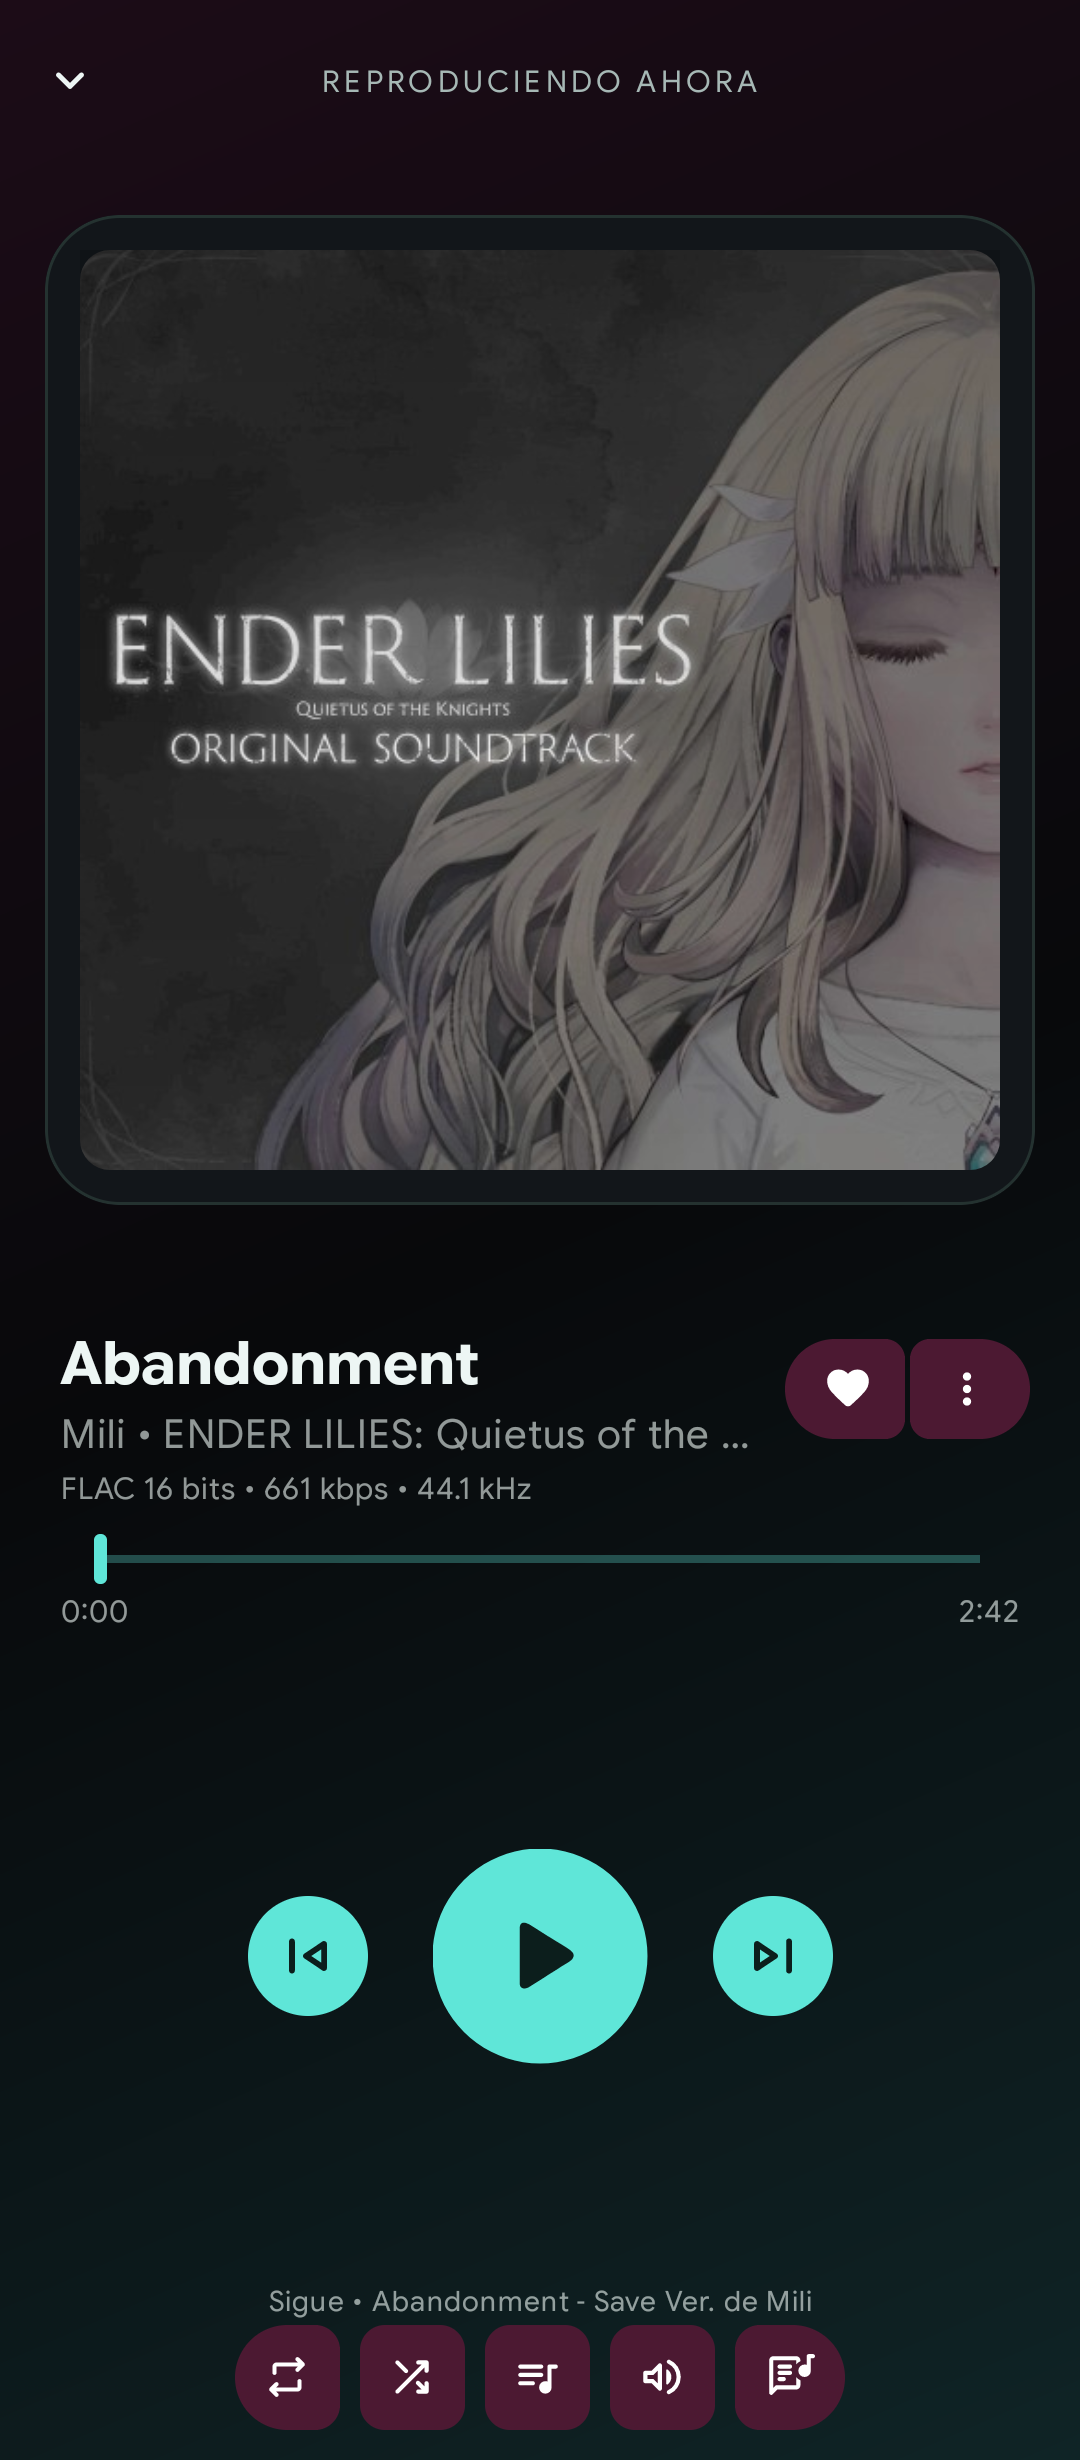
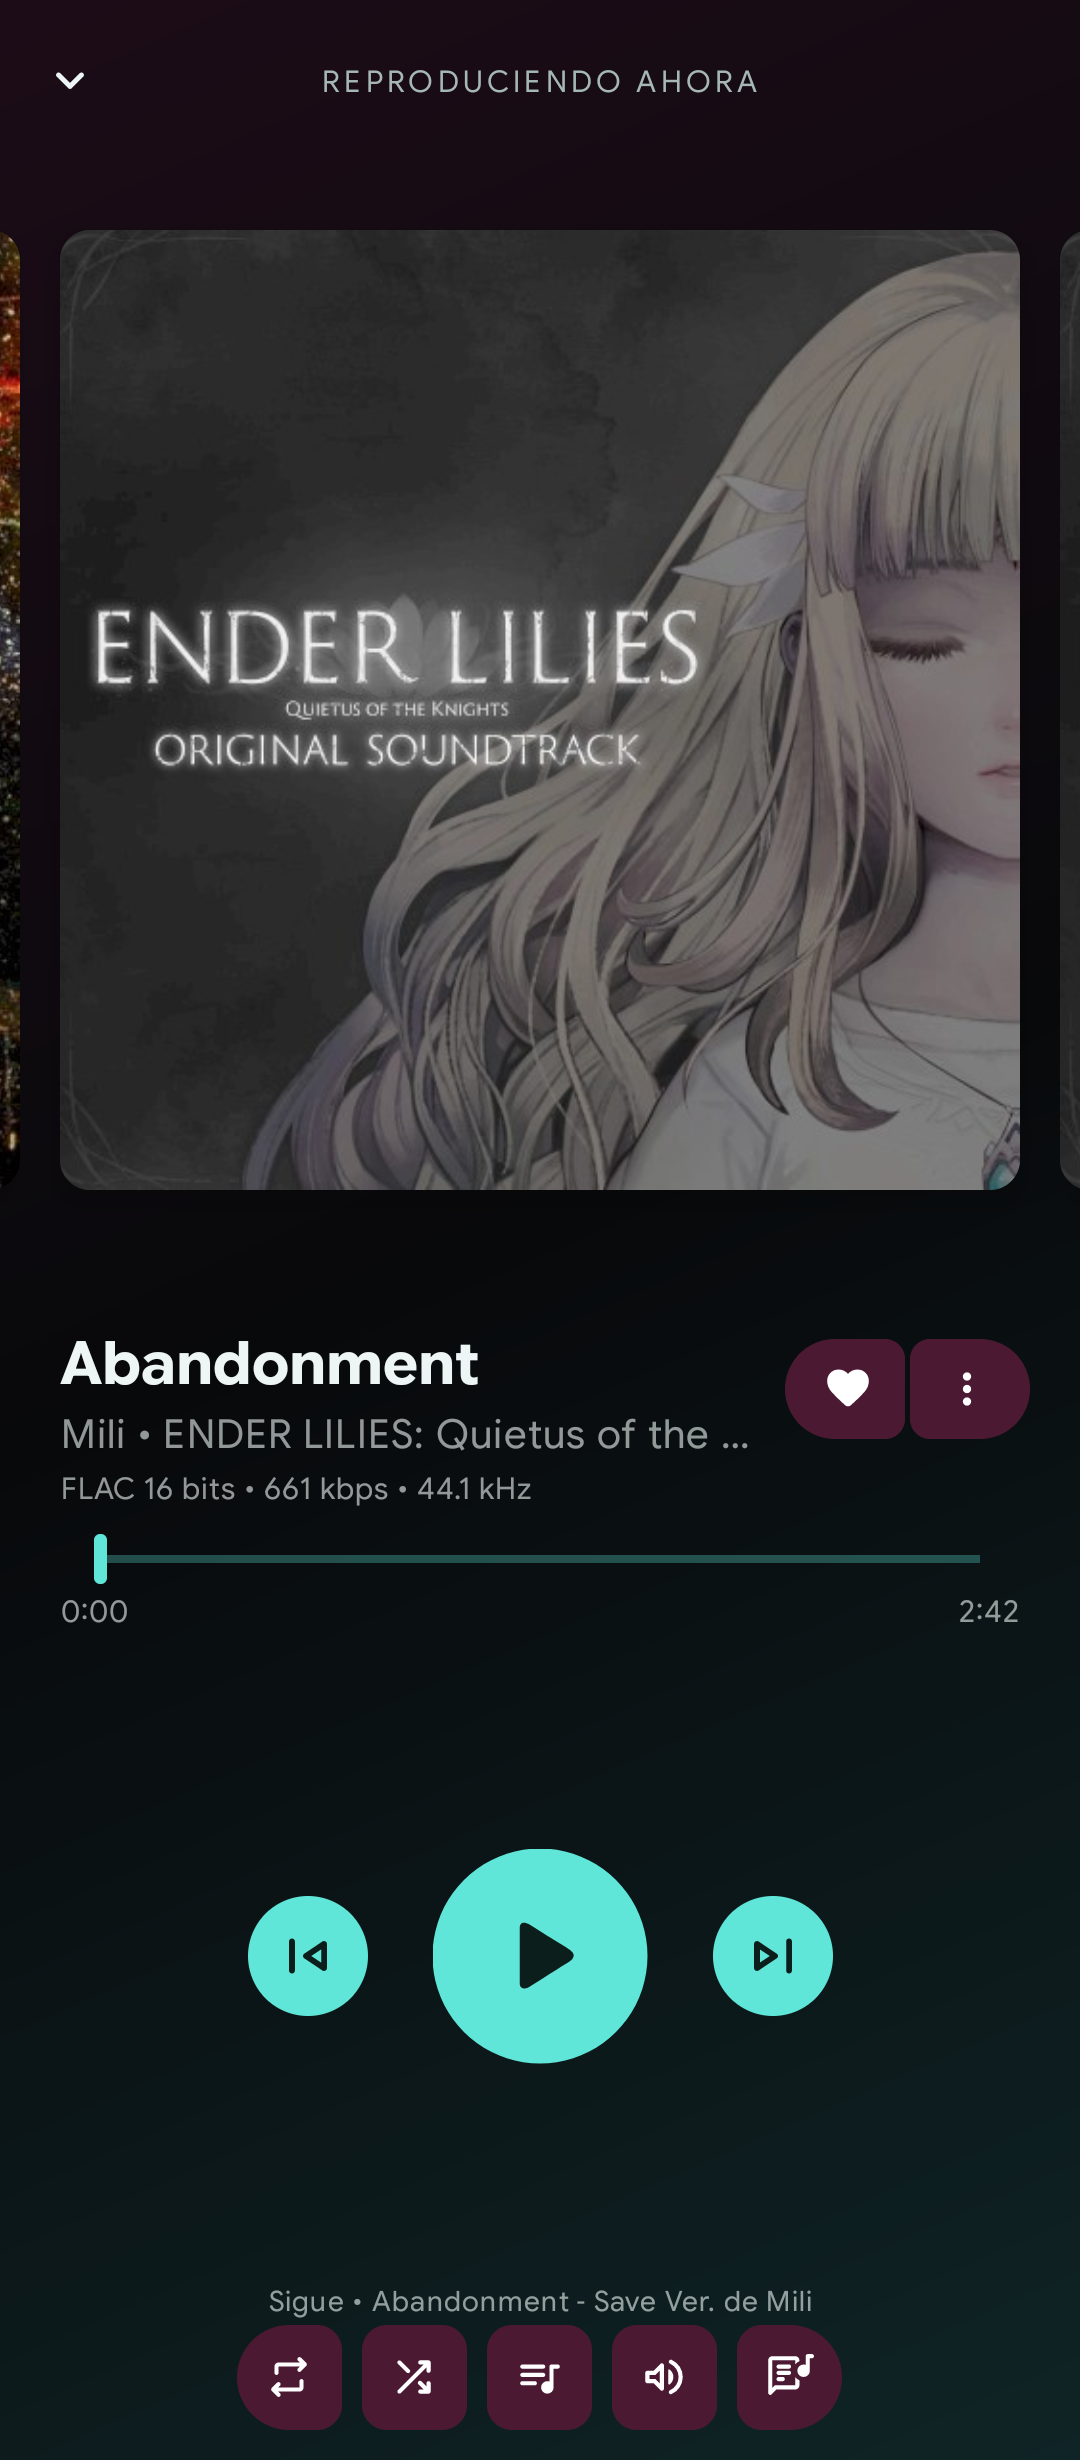
feat(ui): keep cover carousel in Elyvaen player

diff --git a/ElyvaenMusic/app/src/main/java/com/mardous/booming/core/model/theme/NowPlayingScreen.kt b/ElyvaenMusic/app/src/main/java/com/mardous/booming/core/model/theme/NowPlayingScreen.kt
@@ -54,7 +54,7 @@ enum class NowPlayingScreen(
         R.layout.fragment_album_cover_elyvaen,
         buttonStyle = NowPlayingButtonStyle.Normal,
         supportsCoverLyrics = true,
-        supportsCarouselEffect = false,
+        supportsCarouselEffect = true,
         supportsCustomCornerRadius = false,
         supportsSmallImage = false
     ),
